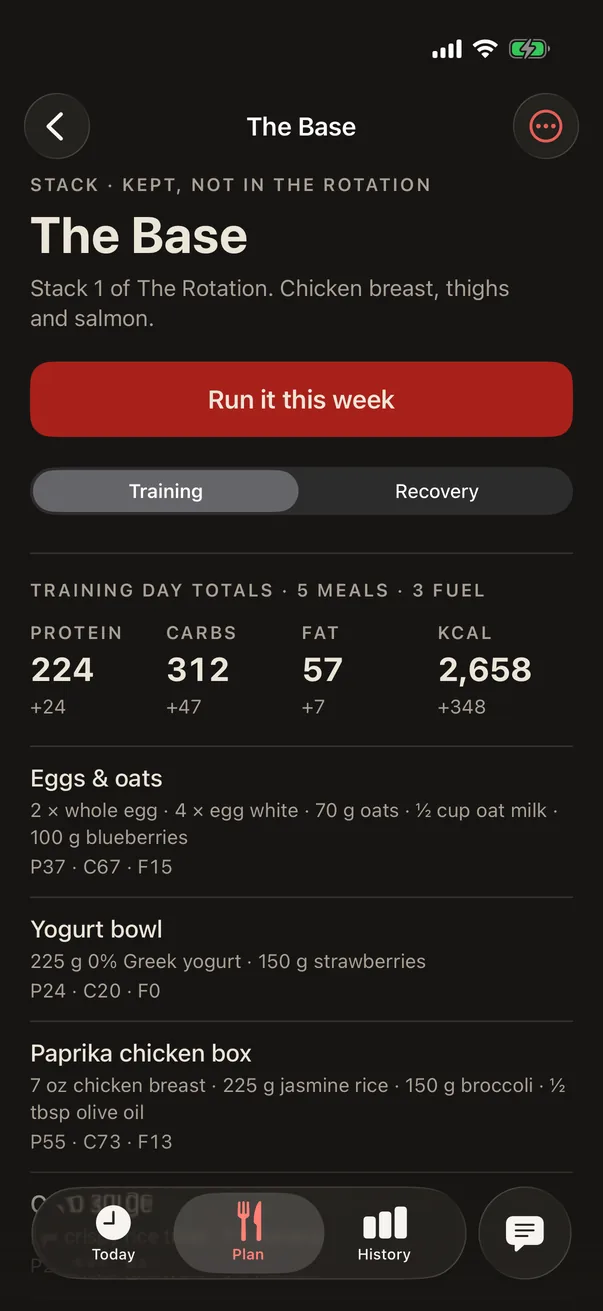
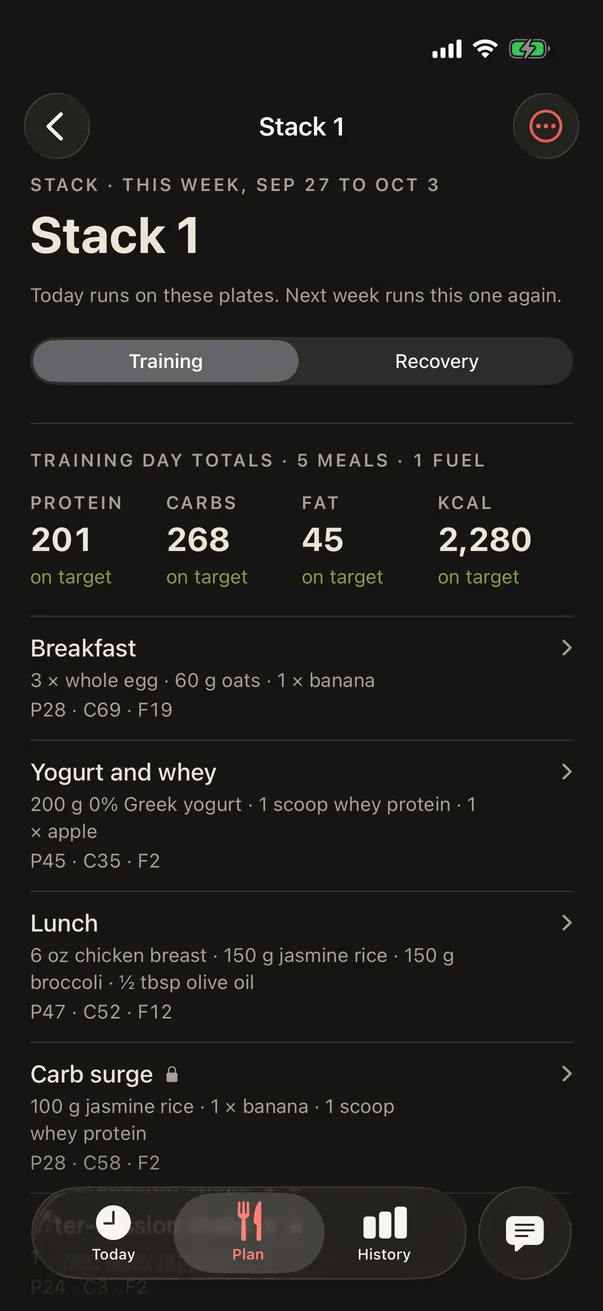
MealStack screens from the 10-03 build: landing, tour and share cards
New Simulator shots (dark, Dynamic Island empty) for Today, the moved
session, the late log, Stack 1, the meal editor and History. The eating-out
card shows Stack AI's real composer with "Stack AI is an AI and can be
wrong." in place of the Sept 20 Chipotle reply, and its caption and the
note under the screens no longer claim an answer. Alts match the new
screens; no "Send Coach the menu" left. The tour's stack step is Stack 1.
OG cards rebuilt.

Claude-Session: https://claude.ai/code/session_0143SRMSeeBHCNdsQ1Ad6r9K

diff --git a/public/demos/mealstack.html b/public/demos/mealstack.html
@@ -147,10 +147,9 @@ button { font: inherit; }
     { part: 'protein', img: '04-today-morning', clock: '6:40', title: 'The next meal is the screen',
       desc: 'The day is a stack of meals, spaced out. The next one is the biggest thing on Today, counting down, with what’s on the plate and its protein. An alert finds you when it’s due.' },
     { part: 'protein', img: '21-stack-detail', clock: '6:42', title: 'Planned plate by plate',
-      hot: [18, 680, 384, 762], doText: 'Tap Paprika chicken box',
-      desc: 'A stack is a training day and a recovery day of meals. The Base puts 224 g of protein across the training day, and every plate shows its share.' },
+      desc: 'A stack is a training day and a recovery day of meals. Stack 1, this week’s, puts 201 g of protein across the training day, on target, and every plate shows its share.' },
     { part: 'protein', img: '22-meal-editor', clock: '6:42', title: 'Weighed, not guessed',
-      desc: 'A meal is its ingredients, by weight, with their macros. The meal’s totals and the day’s update as you edit. Fuel, like the shake after the session, counts its protein toward the day but never counts as a meal.' },
+      desc: 'Open any meal from the Meals shelf, like this paprika chicken box. A meal is its ingredients, by weight, with their macros. The meal’s totals and the day’s update as you edit. Fuel, like the shake after the session, counts its protein toward the day but never counts as a meal.' },
 
     // ── 02 Session ──
     { part: 'session', img: '08-session-menu', clock: '7:06', title: 'The session is the anchor',
